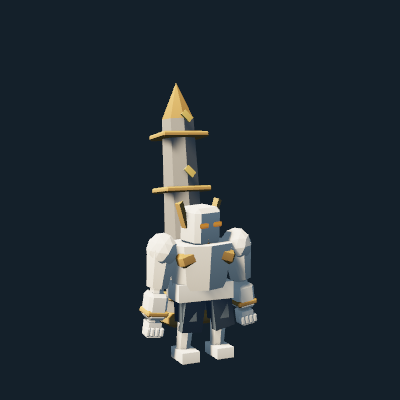
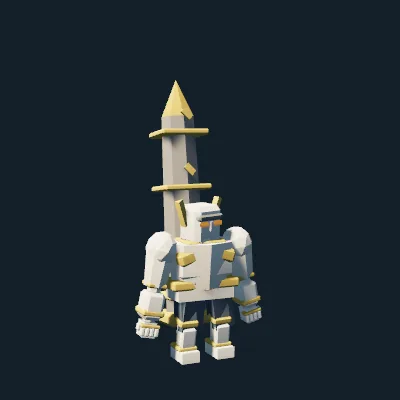
Fix Gods poses from Linux captures and add Shop portraits (GD-04)
Astreon guards with the lance upright at his right side and lowers it onto
the diagonal only during the thrust; both hands stay on the shaft through
the stroke and the kneeling death. Volthar's guard turns the hammer head
edge-on so no B-form spike crosses the face. Colossus B buttresses become
slim stone and the A crown rays shorter. Adds GD-04 Training battle capture
scenes and 400x400 portraits for Volthar, Astreon and the refined Colossus.

Changed region(s): [[0.33, 0.39, 0.66, 0.9], [0.36, 0.21, 0.54, 0.39]]

diff --git a/crates/tbg-client/src/art/kits/astreon/motion.rs b/crates/tbg-client/src/art/kits/astreon/motion.rs
@@ -15,6 +15,11 @@ use std::f32::consts::TAU;
 const GUARD: Vec3 = Vec3::new(-0.19, 0.26, 0.28);
 /// Shaft yaw: the point leads to the left-front, the butt trails right-back.
 const SHAFT_YAW: f32 = 42.0;
+/// The upright guard of every non-attack clip: the lance stands at his right,
+/// point skyward and butt toward the ground, never across the cuirass.
+const GUARD_UP: Vec3 = Vec3::new(-0.22, 0.12, 0.30);
+const UP_YAW: f32 = 8.0;
+const UP_TILT: f32 = -32.0;
 
 pub(super) fn pose(m: &Moment, p: &mut Pose) {
     p.fill((Vec3::ZERO, Vec3::ZERO));
@@ -32,7 +37,13 @@ pub(super) fn pose(m: &Moment, p: &mut Pose) {
     if m.clip != Clip::Walk {
         tools::plant(p, &body, tools::stance(&body, 1.3, 0.12));
     }
-    grip(m, p, &body, slide, pitch);
+    // Only the stroke lowers the lance onto the diagonal thrust line.
+    let up = if matches!(m.clip, Clip::AttackMelee | Clip::AttackRanged | Clip::Cast) {
+        1.0 - tools::hold(m.t, [0.0, 0.14, 0.42, 0.68])
+    } else {
+        1.0
+    };
+    grip(m, p, &body, (slide, pitch), up);
 }
 
 fn idle(m: &Moment, p: &mut Pose) -> (f32, f32) {
@@ -63,8 +74,21 @@ fn stroke(t: f32) -> (f32, f32) {
 fn attack(m: &Moment, p: &mut Pose) -> (f32, f32) {
     let (load, contact) = stroke(m.t);
     let f = Form::of(m.tier, m.branch);
-    // The pierce (counted) and the B executions lunge deeper and heavier.
-    let verdict = if m.counter >= 2 { 1.0 } else { 0.0 };
+    // The counted pierce (the form's own cycle, read from the server's table)
+    // and the B executions lunge deeper and heavier.
+    let every = tbg_core::content::def(tbg_core::UnitKind::Astreon)
+        .ability(m.tier, m.branch)
+        .into_iter()
+        .find_map(|a| match a {
+            tbg_core::content::Ability::VerdictLance { every, .. } => Some(every),
+            _ => None,
+        })
+        .unwrap_or(4);
+    let verdict = if m.counter.saturating_add(1) >= every {
+        1.0
+    } else {
+        0.0
+    };
     let weight = 1.0 + 0.35 * verdict + if f.b { 0.25 } else { 0.0 };
     tools::set(p, Chest, [3.0 + 5.0 * contact * weight, -10.0 * load, 0.0]);
     tools::set(p, Head, [-3.0 - 3.0 * contact, 6.0 * load, 0.0]);
@@ -90,7 +114,7 @@ fn hit(m: &Moment, p: &mut Pose) -> (f32, f32) {
     (-0.04 * recoil, -34.0 + 6.0 * recoil)
 }
 
-/// He loses balance onto one knee, the lance sinking to the ground in both hands.
+/// He loses balance onto one knee and slumps over the lance planted in both hands.
 fn death(m: &Moment, p: &mut Pose, body: &Proportions) -> (f32, f32) {
     let stagger = tools::hold(m.t, [0.0, 0.10, 0.18, 0.30]);
     let kneel = tools::window(m.t, 0.12, 0.70);
@@ -99,14 +123,14 @@ fn death(m: &Moment, p: &mut Pose, body: &Proportions) -> (f32, f32) {
     tools::set(p, Spine, [-8.0 * stagger + 16.0 * bow, 0.0, 5.0 * bow]);
     tools::set(p, Head, [12.0 * bow, 0.0, 0.0]);
     p[Secondary(Spring::Back).index()].0.x = -10.0 * bow;
-    (-0.02 * bow, -34.0 + 70.0 * kneel)
+    (-0.06 * kneel, -34.0 + 20.0 * kneel)
 }
 
 fn spawn(m: &Moment, p: &mut Pose) -> (f32, f32) {
     let rise = tools::window(m.t, 0.0, 0.45);
     tools::shift(p, Root, [0.0, -0.22 * (1.0 - rise), 0.0]);
     tools::set(p, Head, [-8.0 * (1.0 - rise), 0.0, 0.0]);
-    (0.0, -60.0 + 26.0 * rise)
+    (0.0, -40.0 + 6.0 * rise)
 }
 
 fn evolve(m: &Moment, p: &mut Pose) -> (f32, f32) {
@@ -116,7 +140,7 @@ fn evolve(m: &Moment, p: &mut Pose) -> (f32, f32) {
     tools::set(p, Chest, [4.0 * gather - 6.0 * display, 0.0, 0.0]);
     tools::set(p, Head, [-10.0 * display, 0.0, 0.0]);
     p[Secondary(Spring::Back).index()].0.x = -12.0 * display;
-    (0.04 * display, -34.0 - 30.0 * display)
+    (0.06 * display, -34.0 - 12.0 * display)
 }
 
 /// Conquest: the point rises skyward on each beat and settles back to guard.
@@ -128,18 +152,21 @@ fn victory(m: &Moment, p: &mut Pose) -> (f32, f32) {
     tools::set(p, Chest, [-5.0 * raise, 3.0 * beat, 0.0]);
     tools::set(p, Head, [-12.0 * raise, -3.0 * beat, 0.0]);
     p[Secondary(Spring::Back).index()].0.x = 10.0 * raise;
-    (0.06 * raise, -34.0 - 40.0 * raise)
+    (0.10 * raise, -34.0 - 14.0 * raise)
 }
 
-fn grip(m: &Moment, p: &mut Pose, body: &Proportions, mut slide: f32, pitch: f32) {
+fn grip(m: &Moment, p: &mut Pose, body: &Proportions, (mut slide, pitch): (f32, f32), up: f32) {
     let chest = tools::chest(p, body);
+    let guard = GUARD.lerp(GUARD_UP, up);
+    let yaw = SHAFT_YAW + (UP_YAW - SHAFT_YAW) * up;
+    let pitch = pitch + UP_TILT * up;
     let thrust = matches!(m.clip, Clip::AttackMelee | Clip::AttackRanged | Clip::Cast);
     let (_, contact) = stroke(m.t);
     let tip = lance::tip(Form::of(m.tier, m.branch));
     let pitch = match m.aim {
         Some(aim) if thrust => {
             let target = chest.inverse().transform_point3(aim.target);
-            let delta = target - GUARD;
+            let delta = target - guard;
             let wanted = -delta.y.atan2(delta.xz().length()).to_degrees();
             // The point lands just inside the target instead of spearing past it.
             let fit = (delta.length() - tip.z + 0.06).clamp(-0.30, 0.12);
@@ -149,8 +176,8 @@ fn grip(m: &Moment, p: &mut Pose, body: &Proportions, mut slide: f32, pitch: f32
         _ => pitch,
     };
     let rotation =
-        Quat::from_rotation_y(SHAFT_YAW.to_radians()) * Quat::from_rotation_x(pitch.to_radians());
-    let origin = GUARD + rotation * Vec3::Z * slide;
+        Quat::from_rotation_y(yaw.to_radians()) * Quat::from_rotation_x(pitch.to_radians());
+    let origin = guard + rotation * Vec3::Z * slide;
     p[Prop(Socket::WeaponR).index()] = (ik::degrees(rotation), origin);
     solve_hands(p, body, rotation, origin);
     if let Some(aim) = m.aim {

diff --git a/crates/tbg-client/src/capture/training.rs b/crates/tbg-client/src/capture/training.rs
@@ -135,6 +135,9 @@ fn journey(
             ];
             catalog.dummies = false;
         }
+        if let Some(scene) = crate::config::url_param("capture_gods") {
+            gods_scene(&mut catalog, &scene);
+        }
         if crate::config::url_param("capture_legacy_crowd").is_some() {
             use tbg_core::{training::TrainingUnitSpec, UnitKind::*};
             let placed = |kind, x| TrainingUnitSpec {
@@ -160,6 +163,8 @@ fn journey(
     let Some(s) = &trial.session else { return };
     let id = s.id();
     match *stage {
+        // GD-04 battle evidence keeps the authoritative trial running.
+        2 if crate::config::url_param("capture_gods").is_some() => {}
         2 if if crate::config::url_param("capture_barrel").is_some() {
             !s.state().barrels.is_empty()
         } else {
@@ -210,6 +215,50 @@ fn journey(
         }
         _ => {}
     }
+}
+
+/// GD-04 Gods battle scenes through the same authoritative Training catalog.
+fn gods_scene(catalog: &mut crate::training::Catalog, scene: &str) {
+    use tbg_core::{training::TrainingUnitSpec, UnitKind::*};
+    let placed = |kind, tier, branch, x| TrainingUnitSpec {
+        x: Some(x),
+        tier,
+        branch,
+        ..TrainingUnitSpec::base(kind)
+    };
+    let (selected, allies, enemies) = match scene {
+        "volthar" => (
+            Volthar,
+            vec![placed(Volthar, 2, 0, 6200), placed(Volthar, 2, 1, 5200)],
+            [10_400, 10_900, 11_400, 11_900, 12_400, 12_900, 13_400]
+                .into_iter()
+                .map(|x| placed(Archer, 0, 0, x))
+                .collect(),
+        ),
+        "astreon" => (
+            Astreon,
+            vec![placed(Astreon, 0, 0, 8200), placed(Astreon, 2, 1, 7400)],
+            vec![
+                placed(Colossus, 0, 0, 10_600),
+                placed(BoneBrute, 0, 0, 10_200),
+            ],
+        ),
+        _ => (
+            Colossus,
+            vec![placed(Colossus, 2, 0, 8200), placed(Colossus, 2, 1, 7000)],
+            vec![
+                placed(Shieldbearer, 0, 0, 11_200),
+                placed(BoneBrute, 0, 0, 11_600),
+                placed(Archer, 0, 0, 12_300),
+                placed(Sawbot, 0, 0, 11_900),
+            ],
+        ),
+    };
+    catalog.selected = selected;
+    catalog.allies = allies;
+    catalog.enemies = enemies;
+    catalog.dummies = false;
+    eprintln!("GD-04 {scene} scene configured through the authoritative Training catalog");
 }
 
 #[derive(Resource, Default)]

diff --git a/crates/tbg-client/src/art/kits/colossus/model.rs b/crates/tbg-client/src/art/kits/colossus/model.rs
@@ -332,7 +332,7 @@ fn wrath(v: &mut Vec<PartSpec>, s: Stone, f: Form) {
         v.push(
             part(
                 Body(Head),
-                Prism(0.04, 0.22 + 0.4 * (0.1 - x.abs())),
+                Prism(0.04, 0.14 + 0.5 * (0.1 - x.abs())),
                 s.metal,
                 [x, 0.26, -0.01],
             )
@@ -487,13 +487,19 @@ fn obelisk(v: &mut Vec<PartSpec>, s: Stone, f: Form) {
         }
     }
     if f.b {
-        // Structural buttresses and a heavier foot; tier 2 a broad crowned cap.
+        // Slim stone buttresses with gold caps; tier 2 adds a broad crowned cap.
         for side in [-1.0f32, 1.0] {
             v.push(part(
                 n,
-                Bevel(0.05, 0.85, width * 0.9, 0.012),
+                Bevel(0.035, 0.70, width * 0.55, 0.01),
+                s.shade,
+                [side * width * 0.66, 0.30, 0.0],
+            ));
+            v.push(part(
+                n,
+                Bevel(0.045, 0.04, width * 0.6, 0.008),
                 s.metal,
-                [side * width * 0.72, 0.30, 0.0],
+                [side * width * 0.66, 0.66, 0.0],
             ));
         }
         if f.t2 {

diff --git a/crates/tbg-client/src/art/gods_tests.rs b/crates/tbg-client/src/art/gods_tests.rs
@@ -98,7 +98,7 @@ fn gd04_astreon_holds_the_lance_in_both_hands_and_its_shaft_stays_out_of_the_tor
         let plan = kits::astreon::plan(t);
         frames(UnitKind::Astreon, t, b, |clip, world| {
             let lance = world[Prop(WeaponR).index()];
-            for (hand, anchor) in [(HandR, 0.0f32), (HandL, 0.24)] {
+            for (hand, anchor) in [(HandR, 0.0f32), (HandL, 0.20)] {
                 let at = lance.transform_point3(Vec3::new(0.0, 0.0, anchor));
                 let wrist = world[Body(hand).index()].transform_point3(Vec3::ZERO);
                 assert!(

diff --git a/crates/tbg-client/src/local.rs b/crates/tbg-client/src/local.rs
@@ -212,7 +212,8 @@ mod side_tests {
             while game.state.phase != Phase::Running {
                 game.state.step();
             }
-            game.state.players[game.you.index()].energy = 20 * tbg_core::content::ENERGY_SCALE;
+            // GD-04: the preview pool's dearest offer (Astreon) costs 23.
+            game.state.players[game.you.index()].energy = 30 * tbg_core::content::ENERGY_SCALE;
             let energy = game.state.player(game.you).energy;
             game.send(ClientMsg::Intent {
                 seq: 17,

diff --git a/crates/tbg-client/src/art/kits/volthar/hammer.rs b/crates/tbg-client/src/art/kits/volthar/hammer.rs
@@ -17,9 +17,9 @@ pub(super) const SUPPORT: Vec3 = Vec3::new(0.0, 0.0, 0.26);
 pub(super) const MUZZLE: Vec3 = Vec3::new(0.0, 0.0, HEAD_Z + 0.12);
 
 fn head_size(f: Form) -> Vec3 {
-    let grow = if f.t2 { 1.18 } else { 1.0 };
+    let grow = if f.t2 { 1.12 } else { 1.0 };
     let base = if f.b {
-        Vec3::new(0.40, 0.24, 0.24)
+        Vec3::new(0.36, 0.22, 0.22)
     } else {
         Vec3::new(0.34, 0.21, 0.21)
     };

diff --git a/crates/tbg-client/src/training/mod.rs b/crates/tbg-client/src/training/mod.rs
@@ -191,7 +191,8 @@ mod completion_catalog_tests {
         let shown = catalog.visible(crate::i18n::Lang::En);
         assert_eq!(
             shown.iter().filter(|kind| kind.is_conventional()).count(),
-            82
+            // GD-04: Colossus, Volthar and Astreon.
+            84
         );
         for kind in tbg_core::COMPLETION_POOL.into_iter().skip(46) {
             assert!(shown.contains(&kind));

diff --git a/crates/tbg-client/src/art/kits/volthar/motion.rs b/crates/tbg-client/src/art/kits/volthar/motion.rs
@@ -23,11 +23,12 @@ struct Hold {
     both: f32,
 }
 
+// The head turns edge-on to the face (roll) so no striking face or spike crosses it.
 const GUARD: Hold = Hold {
-    at: Vec3::new(-0.44, -0.02, 0.18),
-    pitch: -78.0,
-    yaw: -12.0,
-    roll: 0.0,
+    at: Vec3::new(-0.50, -0.12, 0.10),
+    pitch: -72.0,
+    yaw: -18.0,
+    roll: 90.0,
     both: 0.0,
 };
 const LOADED: Hold = Hold {

diff --git a/crates/tbg-client/src/art/kits/astreon/lance.rs b/crates/tbg-client/src/art/kits/astreon/lance.rs
@@ -14,7 +14,7 @@ use bevy::prelude::*;
 pub(super) const REAR: f32 = -0.78;
 pub(super) const SHAFT_FRONT: f32 = 0.52;
 /// The leading hand, ahead of the rear grip at the origin.
-pub(super) const SUPPORT: Vec3 = Vec3::new(0.0, 0.0, 0.24);
+pub(super) const SUPPORT: Vec3 = Vec3::new(0.0, 0.0, 0.20);
 
 pub(super) fn blade(f: Form) -> f32 {
     match (f.a, f.t2) {
